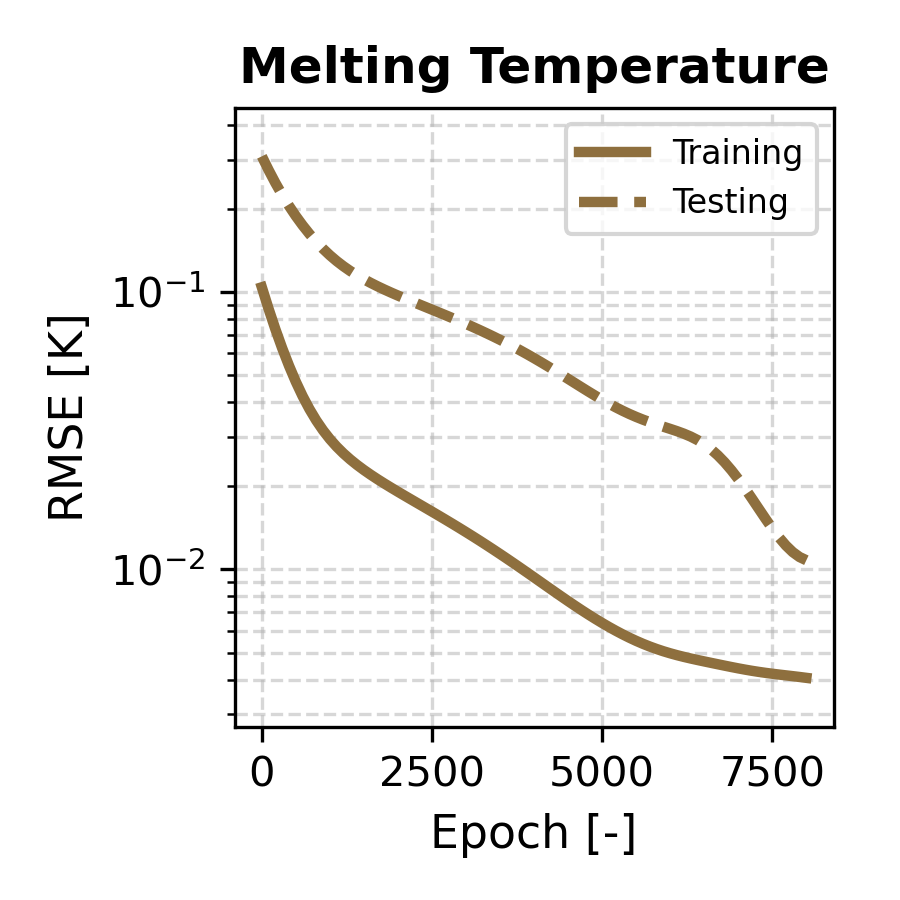
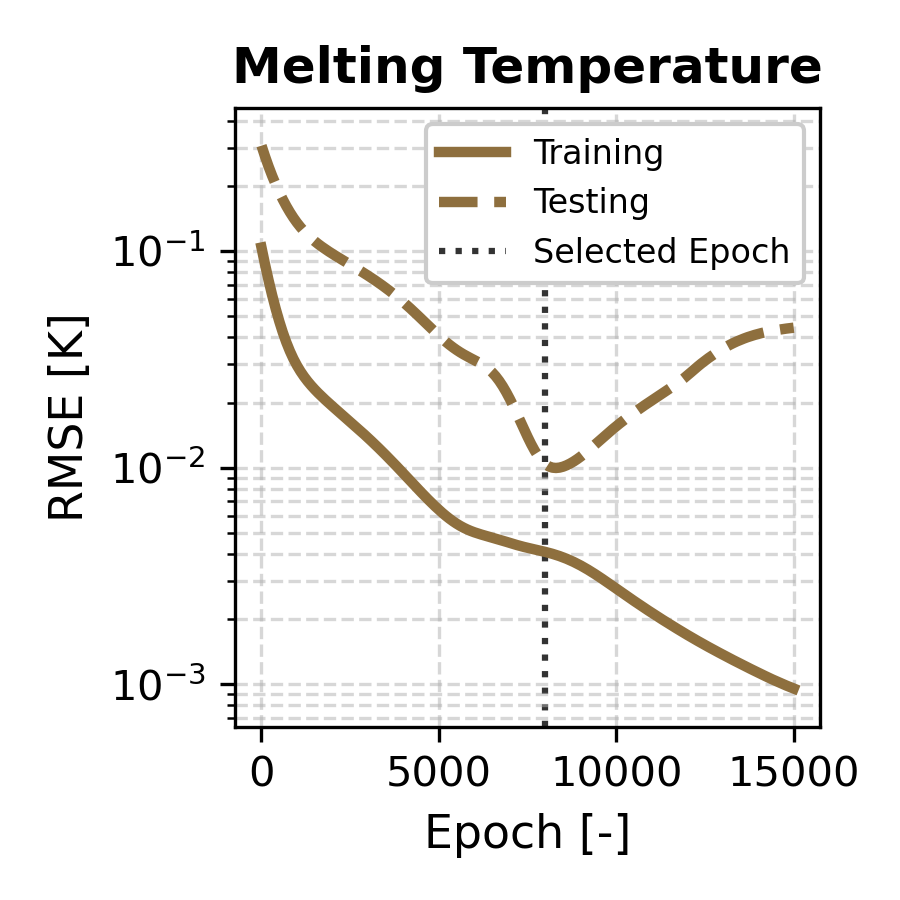
Updated to epoch plots to include more epochs and selected epoch at 8000.

diff --git a/RUNME_epoch_plots.py b/RUNME_epoch_plots.py
@@ -8,7 +8,7 @@ import numpy as np
 # USER CONFIGURATION
 # ==========================================
 # 1. File Path
-csv_log_path = Path("data/output/ALL3_TestRMSE00241/history.csv")
+csv_log_path = Path("data/output/ALL3_TestRMSE00241/history_15000.csv")
 
 
 # 2. Log Scale Toggle
@@ -20,6 +20,8 @@ TASK_METRICS = {
     1: {"name": "Enthalpy of Fusion", "unit": "kJ/mol", "color": "#DDB945"},
     2: {"name": "Enthalpy of Formation", "unit": "kJ/mol", "color": "#9D9795"},
 }
+
+selected_epochs = [8000]
 
 # 4. Global Plot Formatting Options
 PLOT_CONFIG = {
@@ -36,6 +38,11 @@ PLOT_CONFIG = {
     "test_style": "--",
     "test_label": "Testing",
     "line_width": 2.5,
+    # Vertical line style for selected epoch(s)
+    "epoch_line_color": "#000000",
+    "epoch_line_style": ":",
+    "epoch_line_width": 1.5,
+    "epoch_line_alpha": 0.8,
     # Font Sizes & Axes
     "label_fontsize": 11,
     "title_fontsize": 12,
@@ -47,6 +54,27 @@ PLOT_CONFIG = {
 
 PLOT_CONFIG["save_dir"].mkdir(parents=True, exist_ok=True)
 # ==========================================
+
+def add_epoch_vertical_lines(ax):
+    """Adds vertical lines for user-specified selected epochs and returns legend labels."""
+    if not selected_epochs:
+        return
+
+    for idx, ep in enumerate(selected_epochs):
+        # Label only the first line as "Selected Epoch" (or list specific values if multiple)
+        label = (
+            "Selected Epoch"
+        )
+
+        ax.axvline(
+            x=ep,
+            color=PLOT_CONFIG["epoch_line_color"],
+            linestyle=PLOT_CONFIG["epoch_line_style"],
+            linewidth=PLOT_CONFIG["epoch_line_width"],
+            alpha=PLOT_CONFIG["epoch_line_alpha"],
+            label=label,
+            zorder=1,
+        )
 
 # 1. Load Training Log CSV
 print(f"Loading training log: {csv_log_path}")
@@ -77,6 +105,7 @@ if "train_loss" in df_log.columns and "test_loss" in df_log.columns:
         linewidth=PLOT_CONFIG["line_width"],
         label=f"{PLOT_CONFIG['test_label']}",
     )
+    add_epoch_vertical_lines(ax)
 
     if use_log_scale:
         ax.set_yscale("log")
@@ -96,6 +125,7 @@ if "train_loss" in df_log.columns and "test_loss" in df_log.columns:
         alpha=PLOT_CONFIG["grid_alpha"],
     )
     ax.legend(
+        framealpha=1.0,
         frameon=True,
         loc=PLOT_CONFIG["legend_loc"],
         fontsize=PLOT_CONFIG["legend_fontsize"],
@@ -149,7 +179,7 @@ for task_id, info in TASK_METRICS.items():
             linewidth=PLOT_CONFIG["line_width"],
             label=PLOT_CONFIG["test_label"],
         )
-
+    add_epoch_vertical_lines(ax)
     if use_log_scale:
         ax.set_yscale("log")
 
@@ -182,6 +212,7 @@ for task_id, info in TASK_METRICS.items():
     
     # Legend automatically displays only labeled lines
     ax.legend(
+        framealpha=1.0,
         frameon=True,
         loc=PLOT_CONFIG["legend_loc"],
         fontsize=PLOT_CONFIG["legend_fontsize"],

diff --git a/RUNME_MTGPR.py b/RUNME_MTGPR.py
@@ -8,7 +8,7 @@ from data_processing.dataProcessing import prepare_MTGPR_Tm_Hfus_Hf
 if __name__ == "__main__":
     # USER PROVIDED INPUTS
     # model_name = "MutualInformationApproach_v1"
-    model_name = "TestRSME000223"
+    model_name = "RSME_ALL_v4"
 
     # ====================================================================================
     # Train/load model
@@ -18,13 +18,13 @@ if __name__ == "__main__":
     saved_model_name = prop_predictor.model_name
     print(f"Using model name: {saved_model_name}")
 
-    # prop_predictor.train_and_save(train_filepath="data/input/MTGPR_Tm_Hfus_Hf/train_TBABH.xlsx", test_filepath="data/input/MTGPR_Tm_Hfus_Hf/test_TBABH.xlsx")
-    prop_predictor.load_model()
+    prop_predictor.train_and_save(train_filepath="data/input/MTGPR_Tm_Hfus_Hf/train_TBABH.xlsx", test_filepath="data/input/MTGPR_Tm_Hfus_Hf/test_TBABH.xlsx")
+    # prop_predictor.load_model()
 
     print(f"=== Workflow Preparation ===")
     filled_path, combos_path = prepare_MTGPR_Tm_Hfus_Hf(
-        excel_path="data/input/pureComponents_2026DecJANNAF_testing_predicted.xlsx",
-        # excel_path="data/input/pureComponents.xlsx",
+        # excel_path="data/input/pureComponents_2026DecJANNAF_testing_predicted.xlsx",
+        excel_path="data/input/pureComponents.xlsx",
         predictor=prop_predictor,
         combination_arities=[2],
         output_dir="data/output/20260922"

diff --git a/models/propertyPredictor.py b/models/propertyPredictor.py
@@ -41,11 +41,11 @@ class MTGPR_Tm_Hfus_Hf:
         os.makedirs(self.output_dir, exist_ok=True)
         os.makedirs(self.model_dir, exist_ok=True)
 
-        lr = 0.01
-        num_epochs = 30000#7270
+        lr = 0.0005
+        num_epochs = 15000#7270
         task_noise_map = {0: 0.1, 1:0.01, 2:0.01}
-        num_tasks = 2
-        self.num_X = 18
+        num_tasks = 3
+        self.num_X = 30
         linear_range = 7
         mean_mod = gpytorch.means.LinearMean(input_size=self.num_X, bias=True)
         # mean_mod = gpytorch.means.ConstantMean()
@@ -179,7 +179,7 @@ class MTGPR_Tm_Hfus_Hf:
 
         dS_mean, dS_std = means[:, 0], stds[:, 0]
         dH_fus_mean, dH_fus_std = means[:, 1], stds[:, 1]
-        # dH_f_mean, dH_f_std = means[:, 2], stds[:, 2]
+        dH_f_mean, dH_f_std = means[:, 2], stds[:, 2]
 
         T_m_mean = dH_fus_mean / dS_mean
         T_m_std = np.sqrt((dH_fus_std / dS_mean)**2 + ((dH_fus_mean * dS_std) / (dS_mean**2))**2)
@@ -190,6 +190,6 @@ class MTGPR_Tm_Hfus_Hf:
             "T_m_std": T_m_std,
             "dH_fus": dH_fus_mean,
             "dH_fus_std": dH_fus_std,
-            # "dH_f": dH_f_mean,
-            # "dH_f_std": dH_f_std
+            "dH_f": dH_f_mean,
+            "dH_f_std": dH_f_std
         }

diff --git a/data_processing/dataProcessing.py b/data_processing/dataProcessing.py
@@ -261,6 +261,7 @@ def prepare_MTGPR_Tm_Hfus_Hf(
     hfus_col = "Enthalpy of Fusion [kJ/mol]"
     hfus_std_col = "Enthalpy of Fusion STDEV [kJ/mol]"
     hf_col = "Enthalpy of Formation [kJ/mol]"
+    hf_std_col = "Enthalpy of Formation STDEV [kJ/mol]"
     
     target_cols = [tm_col, hfus_col, hf_col]
     missing_mask = df[target_cols].isna().any(axis=1)
@@ -291,8 +292,9 @@ def prepare_MTGPR_Tm_Hfus_Hf(
             if pd.isna(df.at[idx, hfus_col]):
                 df.at[idx, hfus_col] = preds["dH_fus"][rel_i]
                 df.at[idx, hfus_std_col] = 2.0*np.sqrt(preds["dH_fus_std"][rel_i])
-            # if pd.isna(df.at[idx, hf_col]):
-            #     df.at[idx, hf_col] = preds["dH_f"][rel_i]
+            if pd.isna(df.at[idx, hf_col]):
+                df.at[idx, hf_col] = preds["dH_f"][rel_i]
+                df.at[idx, hf_std_col] = 2.0*np.sqrt(preds["dH_f_std"][rel_i])
                 
         filled_excel_path = os.path.join(out_filled_dir, "pureComponents_filled.xlsx")
         with pd.ExcelWriter(filled_excel_path, engine='openpyxl') as writer:
